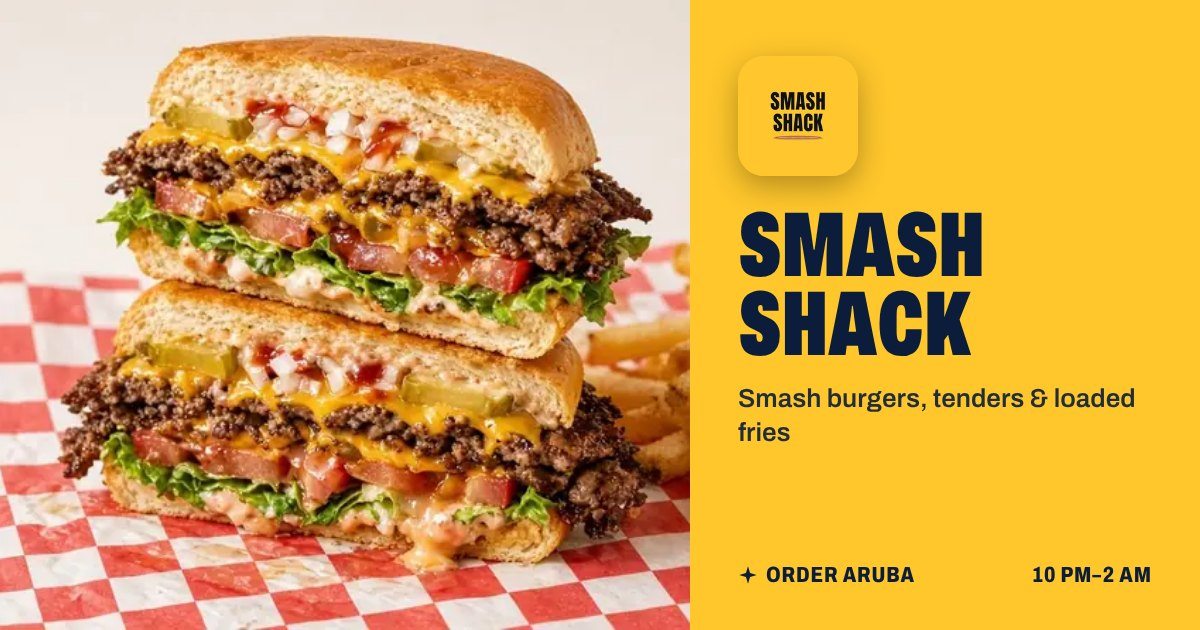
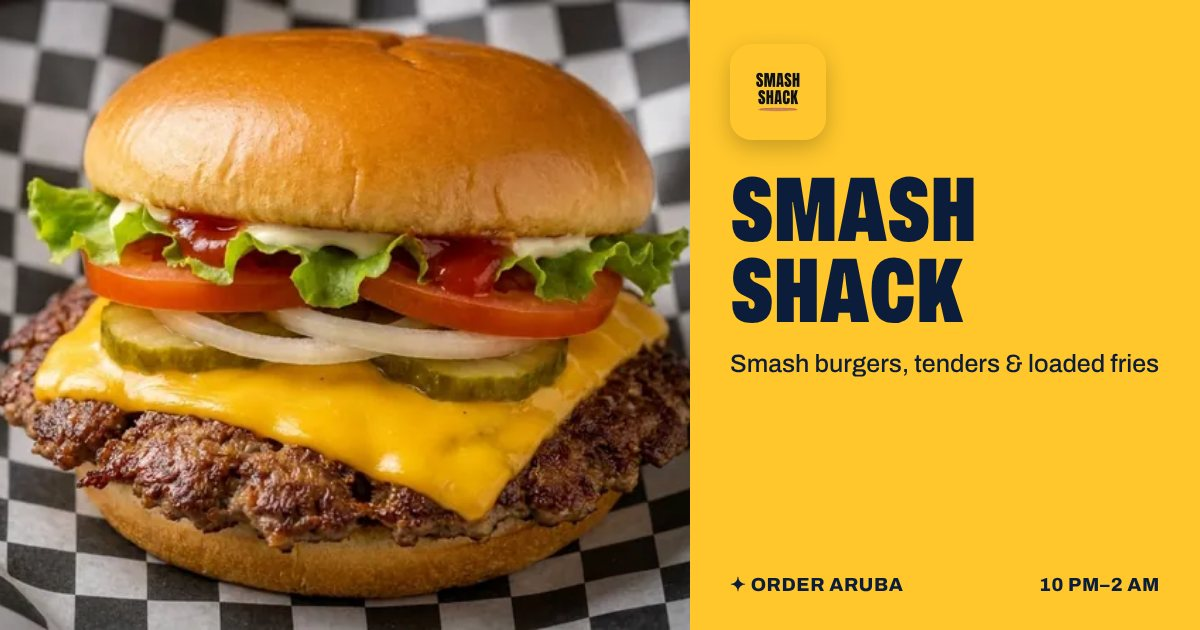
Copy: one kitchen, honest picture line, clean empty cart; new share cards
- Hero and share text: "Five restaurants. One kitchen. One ƒ5 delivery."
- Footer and every menu imageNote: "Pictures are illustrations."
- cart.html hides its "Your order" title while the order is empty, so it
  no longer stacks over the empty state
- shared/og/*.jpg rebuilt from the current menus (new burger, bitterballen,
  Taco Brava colour, new wording) with build/og/make_og.py
- SOURCES.md lists the Gemini-made pictures

Claude-Session: https://claude.ai/code/session_01XBKZdq1LYYQVLVXF99C92c

diff --git a/index.html b/index.html
@@ -7,7 +7,7 @@
 <meta name="description" content="Late-night delivery in Aruba, 10 PM to 2 AM. Chinese, Mexican, smash burgers, Italian and Dutch snacks in one order. ƒ5 delivery. Order on WhatsApp.">
 <meta name="theme-color" content="#0B1D3A">
 <meta property="og:title" content="Order Aruba · Late-night delivery">
-<meta property="og:description" content="Five kitchens. One order. ƒ5 delivery. 10 PM to 2 AM.">
+<meta property="og:description" content="Five restaurants. One kitchen. One ƒ5 delivery. 10 PM to 2 AM.">
 <meta property="og:type" content="website">
 <meta property="og:image" content="https://victorfromaruba-stack.github.io/restaurant-/shared/og/home.jpg">
 <meta property="og:url" content="https://victorfromaruba-stack.github.io/restaurant-/">
@@ -36,7 +36,7 @@
       <h1 id="hero-h">Bon nochi.</h1>
       <div class="sign" data-oa-sign role="status"><b>Open</b><span>10 PM to 2 AM</span></div>
     </div>
-    <p class="hero__sub">Five kitchens. <b>One order.</b> <span data-oa-fee>ƒ5</span> delivery.</p>
+    <p class="hero__sub">Five restaurants. One kitchen. <b>One <span data-oa-fee>ƒ5</span> delivery.</b></p>
     <label class="search"><span class="sr">Search all menus</span><svg viewBox="0 0 24 24" aria-hidden="true"><circle cx="11" cy="11" r="7" fill="none" stroke="currentColor" stroke-width="2.4"/><path d="M20 20l-4-4" stroke="currentColor" stroke-width="2.4" stroke-linecap="round"/></svg><input id="oa-q" type="search" placeholder="Search tacos, fried rice, bitterballen" autocomplete="off" enterkeyhint="search"></label>
     <nav class="quick" id="oa-quick" aria-label="Restaurants"></nav>
   </section>
@@ -61,7 +61,7 @@
     <div><b>10 PM–2 AM</b><span>Every night</span></div>
   </section>
   <p class="areas">We deliver to <span data-oa-areas>Noord, Palm Beach, Eagle Beach, Oranjestad, Paradera and Santa Cruz</span>. Elsewhere? <a data-oa-ask href="#" target="_blank" rel="noopener">Ask us</a>.</p>
-  <footer class="hfoot">Cooked to order in Aruba. Prices in Aruban florin (ƒ). Some dishes are drawings until our kitchen photos are ready.</footer>
+  <footer class="hfoot">Cooked to order in Aruba. Prices in Aruban florin (ƒ). Pictures are illustrations.</footer>
 </main>
 
 <script src="shared/order-app.js" defer></script>

diff --git a/shared/order-app.js b/shared/order-app.js
@@ -796,8 +796,11 @@
     var head = node._mode === "sheet"
       ? '<div class="sheet__head"><h2>Your order</h2><button type="button" class="x" data-close aria-label="Close">' + ICON.close + "</button></div>"
       : "";
+    // the cart page has its own "Your order" title: hide it while the order is empty, so the two don't stack
+    var pageTitle = node._mode === "page" ? $(".cart > h1") : null;
+    if (pageTitle) pageTitle.hidden = !lines.length;
     if (!lines.length) {
-      node.innerHTML = head + '<div class="empty"><p class="empty__t">' + (node._mode === "page" ? "Nothing in it yet" : "Your order is empty") + "</p><p>Tap + on any dish.</p>" +
+      node.innerHTML = head + '<div class="empty"><p class="empty__t">Your order is empty</p><p>Tap + on any dish.</p>' +
         (PAGE === "brand" && node._mode === "sheet" ? '<button type="button" class="btn btn--accent" data-close>Back to the menu</button>' : '<a class="btn btn--accent" href="' + path("index.html") + '">Browse restaurants</a>') + "</div>";
       if (had) restoreFocus(node, null, ".x, .btn");
       return;

diff --git a/build/og/make_og.py b/build/og/make_og.py
@@ -1,0 +1,72 @@
+"""Link preview cards (shared/og/*.jpg, 1200x630) from the live menus and pictures.
+Run from the repo folder with the local server on :8462:
+  python3 -m http.server 8462 --bind 127.0.0.1 &   then   python3 build/og/make_og.py
+Uses each menu.json's name, tagline, color, mark and hero, and the hours in shared/site.json."""
+import asyncio, json, os
+from playwright.async_api import async_playwright
+
+ROOT = os.path.dirname(os.path.dirname(os.path.dirname(os.path.abspath(__file__))))
+BASE = os.environ.get("QA_BASE", "http://127.0.0.1:8462/")
+site = json.load(open(os.path.join(ROOT, "shared/site.json"), encoding="utf-8"))
+ids = [b["id"] for b in site["brands"] if b.get("status") != "hidden"]
+menus = {b: json.load(open(os.path.join(ROOT, b, "menu.json"), encoding="utf-8")) for b in ids}
+
+def t12(hhmm):
+    h, m = map(int, hhmm.split(":")); ap = "PM" if h >= 12 else "AM"; h = h % 12 or 12
+    return f"{h}{':%02d' % m if m else ''} {ap}"
+o, c = site["hours"]["mon"]
+HOURS = f"{t12(o)}–{t12(c)}"
+FEE = "ƒ%g" % (site["deliveryFee"] / 100)
+
+def ink(hex_):
+    h = hex_.lstrip("#"); r, g, b = (int(h[i:i + 2], 16) for i in (0, 2, 4))
+    return "#0B1D3A" if (0.299 * r + 0.587 * g + 0.114 * b) / 255 > 0.5 else "#FFFFFF"
+
+HEAD = f"""<!doctype html><html><head><meta charset="utf-8"><base href="{BASE}">
+<link rel="stylesheet" href="shared/order.css"><style>
+html,body{{margin:0;width:1200px;height:630px;overflow:hidden;background:#0B1D3A}}
+.c{{position:relative;display:flex;width:1200px;height:630px}}
+.ph{{flex:none;width:690px;height:630px;object-fit:cover}}
+.side{{flex:1;display:flex;flex-direction:column;padding:44px 40px 36px}}
+.mk{{width:96px;height:96px;border-radius:22px;object-fit:cover;box-shadow:0 8px 22px rgba(0,0,0,.22)}}
+.nm{{margin:30px 0 0;font:900 92px/.88 var(--font);font-stretch:62%;text-transform:uppercase}}
+.tg{{margin:16px 0 0;font:500 25px/1.3 var(--font)}}
+.ft{{margin-top:auto;display:flex;justify-content:space-between;font:800 19px/1 var(--font);text-transform:uppercase;letter-spacing:.03em}}
+.ft span:first-child::before{{content:"\\2726  "}}
+.hm{{display:grid;grid-template-columns:560px 1fr;width:1200px;height:630px}}
+.hl{{display:flex;flex-direction:column;padding:48px 44px 44px 52px;color:#FFF4DF}}
+.lg{{font:900 24px/1 var(--font);font-stretch:70%;text-transform:uppercase;color:#FFF4DF}}.lg b{{color:#FFC93C}}
+.h1{{margin:44px 0 0;font:900 150px/.84 var(--font);font-stretch:62%;text-transform:uppercase}}
+.sub{{margin:26px 0 0;font:500 29px/1.3 var(--font);color:#A9B6CC}}.sub b{{color:#FFF4DF}}
+.sg{{margin-top:auto;align-self:flex-start;display:flex;align-items:center;gap:14px;padding:10px 16px;border:3px solid #FFC93C;border-radius:12px;color:#FFC93C;text-transform:uppercase;box-shadow:0 0 26px rgba(255,201,60,.3)}}
+.sg b{{font:900 40px/.9 var(--font);font-stretch:62%;letter-spacing:.05em;text-shadow:0 0 8px rgba(255,201,60,.8)}}.sg span{{font:800 16px/1.15 var(--font);font-stretch:75%;letter-spacing:.08em}}
+.grid{{display:grid;grid-template-columns:1fr 1fr;grid-template-rows:1fr 1fr;gap:10px;padding:10px 10px 10px 0}}
+.grid img{{width:100%;height:100%;object-fit:cover;border-radius:14px}}
+</style></head><body>"""
+
+def brand_html(b):
+    m = menus[b]; col = m["color"]; fg = ink(col)
+    return HEAD + f"""<div class="c"><img class="ph" src="{m['hero']}"><div class="side" style="background:{col};color:{fg}">
+<img class="mk" src="{m['mark']}"><h1 class="nm">{m['name']}</h1><p class="tg">{m['tagline']}</p>
+<div class="ft"><span>Order Aruba</span><span>{HOURS}</span></div></div></div></body></html>"""
+
+def home_html():
+    pics = [menus[b]["hero"] for b in ids[:4]]
+    return HEAD + f"""<div class="hm"><div class="hl"><div class="lg"><b>&#10022;</b> Order Aruba</div>
+<div class="h1">Bon<br>nochi.</div><p class="sub">Five restaurants. One kitchen.<br><b>One {FEE} delivery in Aruba.</b></p>
+<div class="sg"><b>Open</b><span>{t12(o)}<br>to {t12(c)}</span></div></div>
+<div class="grid">{''.join(f'<img src="{p}">' for p in pics)}</div></div></body></html>"""
+
+async def main():
+    async with async_playwright() as p:
+        br = await p.chromium.launch()
+        pg = await br.new_page(viewport={"width": 1200, "height": 630})
+        await pg.goto(BASE + "index.html")   # same origin as the fonts, or the browser blocks them
+        for name, html in [("home", home_html())] + [(b, brand_html(b)) for b in ids]:
+            await pg.set_content(html, wait_until="networkidle")
+            await pg.evaluate("document.fonts.load('900 92px Archivo').then(() => document.fonts.ready)")
+            out = os.path.join(ROOT, "shared/og", name + ".jpg")
+            await pg.screenshot(path=out, type="jpeg", quality=84)
+            print(out, os.path.getsize(out) // 1024, "KB")
+        await br.close()
+asyncio.run(main())

diff --git a/SOURCES.md b/SOURCES.md
@@ -1,3 +1,6 @@
+## 8 Oct 2026 update
+- Made with Google Gemini (gemini-3-pro-image), checked against each menu `desc`, saved at the same paths as before: Smash cheeseburger (`smash-shack/assets/dishes/sc-hero.webp`, `sc.webp`), Smash burger combo (`co.webp`), Ground beef street tacos (`taco-brava/assets/art/gt.webp`, a photo-style picture despite the folder name), Crispy shrimp tacos (`taco-brava/assets/dishes/st.webp`), Bitterballen (`oranje-snack/assets/art/bb.webp`). Illustrations, not kitchen photos: every menu says "Pictures are illustrations."
+
 ## 7 Oct 2026 update
 - Oranje Snack dish pictures, Taco Brava `gt` and the three cans (`shared/drinks/`) are original drawings made for this site (sources + scripts in `build/art/`). No brand logos on the cans.
 - Dushi Wok Family Table picture (`dushi-wok/assets/dishes/ft.webp`) is a composite of the fried rice, sweet & sour and lo mein photos (master in `build/photo-masters/dushi-wok/`).
